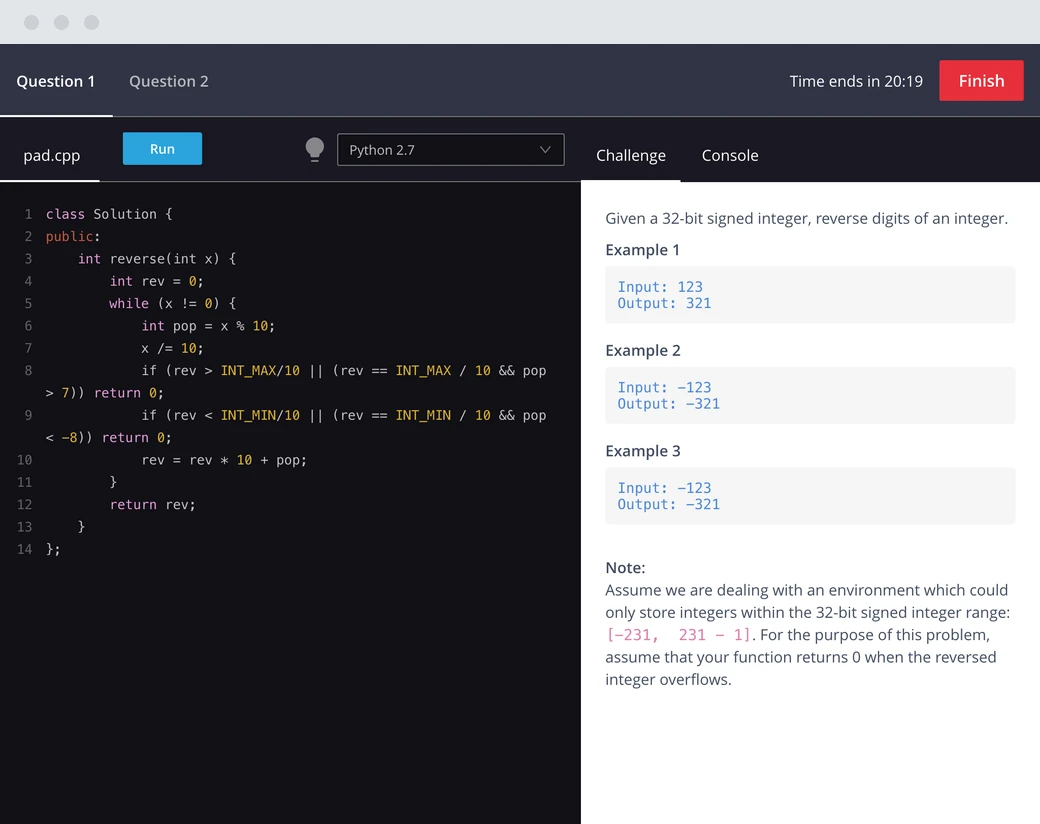
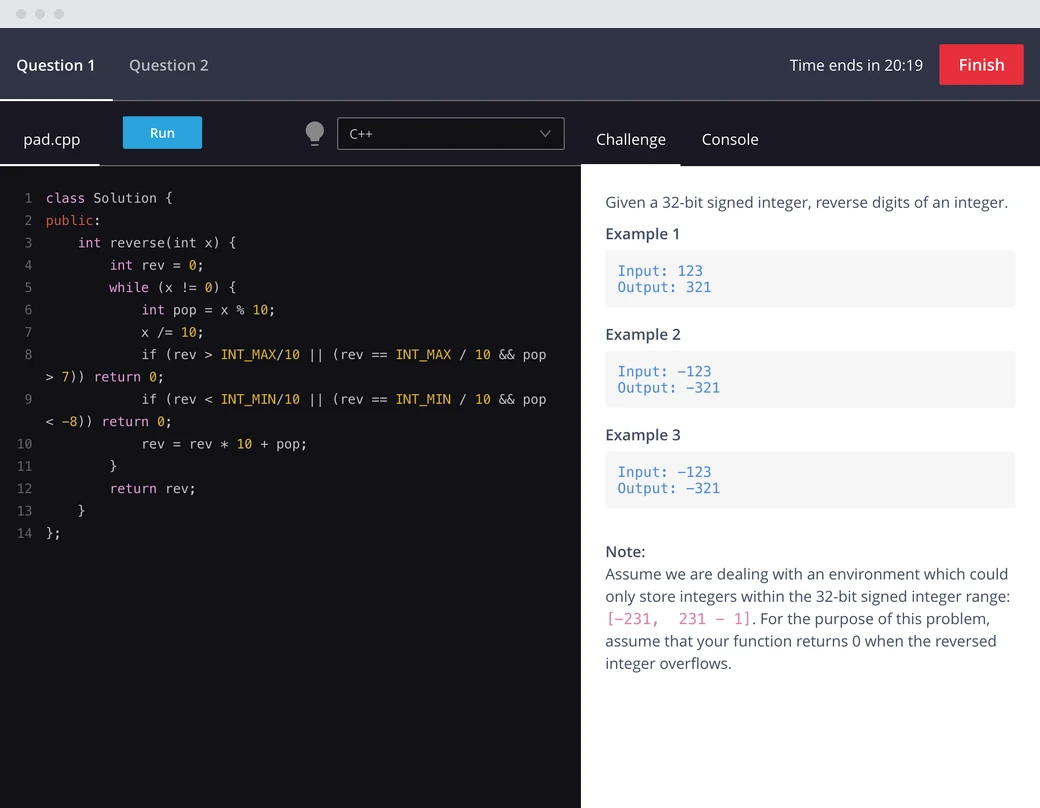
Hired hero: corrected screens, slimmer title bars, practice page runs through the stats
Claude-Session: https://claude.ai/code/session_01VXSKCsyRqCv6TwdNvrmcXN

diff --git a/hired.html b/hired.html
@@ -38,7 +38,7 @@
       </ul>
     </div>
 
-    <div class="shot combo" style="aspect-ratio:2384 / 1140"><img class="win framed" src="assets/img/work/hired-hero-practice.webp" width="1400" height="919" style="left:2.349%;top:0;width:58.725%" alt="Hired Practice: a library of coding challenges with your progress alongside"><img class="ph framed" src="assets/img/work/hired-hero-editor.webp" width="1040" height="824" style="left:54.027%;top:22.807%;width:43.624%" alt="A timed coding challenge in the Hired editor, with the problem and examples beside the code"></div>
+    <div class="shot combo" style="aspect-ratio:2384 / 1164"><img class="win framed" src="assets/img/work/hired-hero-practice.webp" width="1400" height="1084" style="left:2.349%;top:0;width:58.725%" alt="Hired Practice: a library of coding challenges with your progress alongside"><img class="ph framed" src="assets/img/work/hired-hero-editor.webp" width="1040" height="808" style="left:54.027%;top:25.773%;width:43.624%" alt="A timed coding challenge in the Hired editor, with the problem and examples beside the code"></div>
 
     <div class="col prose">
       <p class="m-rise">Hired turned the job search around: companies applied to candidates, with salary up front. I led design and research across product and marketing, with a team of designers and researchers.</p>
